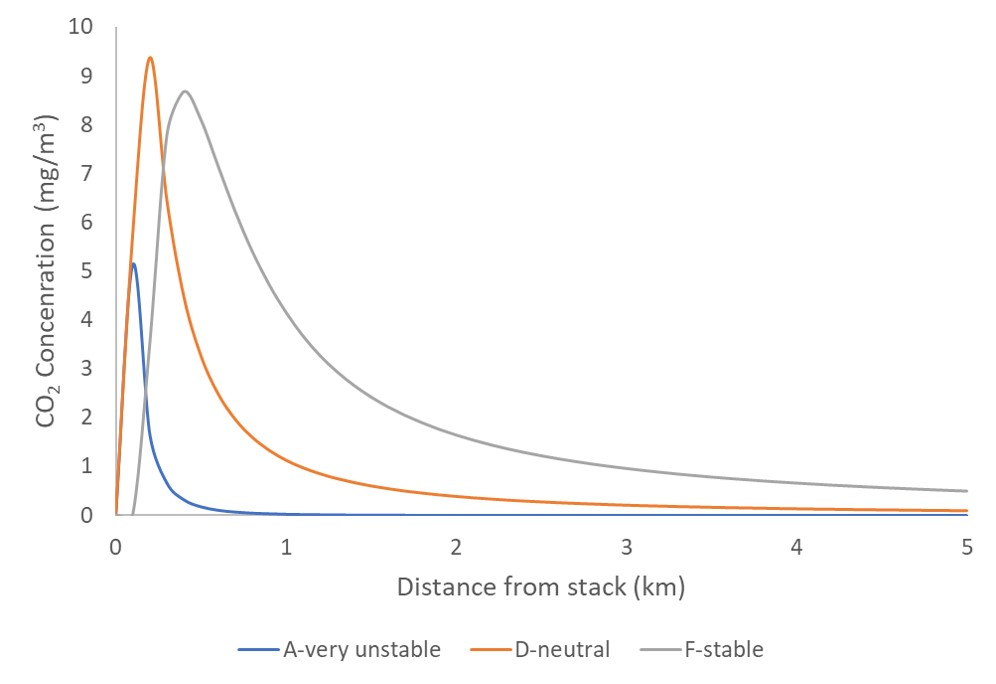
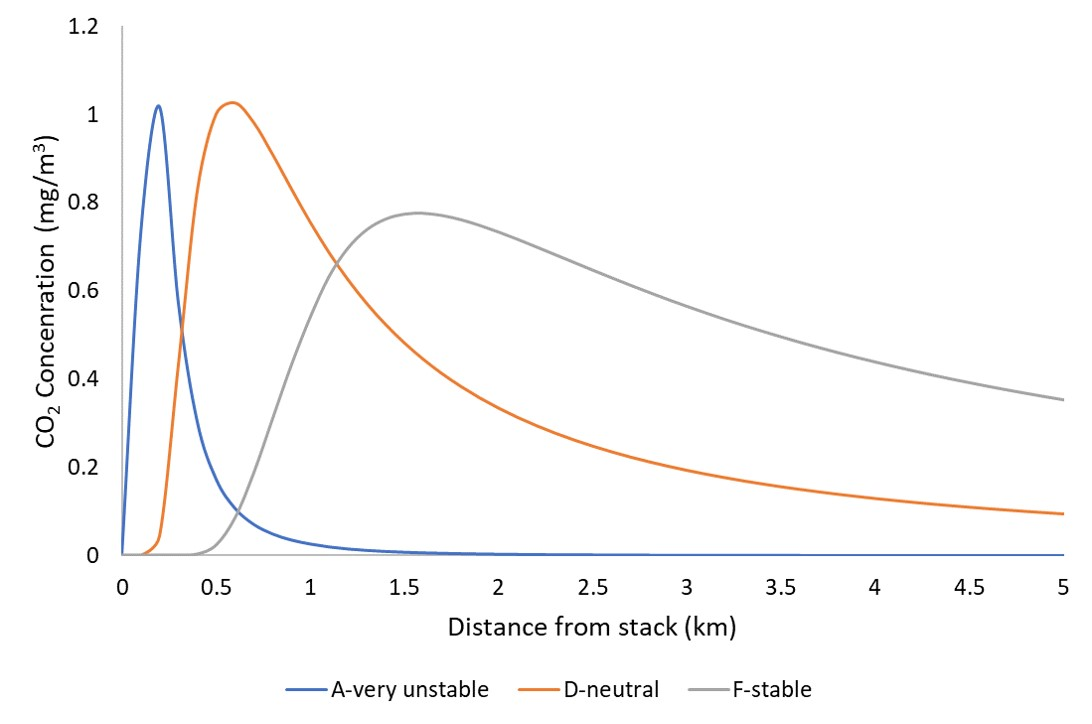
Update on Overleaf.

diff --git a/chapters/0-executive-summary/3-reactor.tex b/chapters/0-executive-summary/3-reactor.tex
@@ -21,6 +21,6 @@ A key aspect of innovation is the robust temperature control within the nitratio
 
 %The reactor is made from stainless steel 304L, which is suitable for corrosive nitric acid processing \cite{cm_selection_nodate}. The wall thickness of the shell and ends were calculated to be \SI{5}{\mm} after taking into consideration of corrosion and other welding factors. The final mechanical design can be seen in \cref{fig:executivesummaryreactor}.
 
-Stable reactor operation is also ensured by a detailed mechanical design (\cref{fig:executivesummaryreactor}) that includes using corrosive-resistant stainless steel 304L and sufficient wall thickness \cite{cm_selection_nodate}. Optimal design was achieved after optimisation and sensitivity analyses on the following design parameters: concentric inner cooling pipe diameter and flowrate, direction of cooling water flow, \ch{HNO3} to toluene inlet ratio and total number of reaction tubes. The temperature profile of the reactor, illustrating the performance of the secondary cooling system in reducing hotspot temperature whilst maintaining the required conversion, is shown in \cref{fig:reactor-comsol}. The optimal reactor length was determined to be \SI{4.3}{\m}.  %A further sensitivity analysis was performed on the cooling water inlet temperature since the temperature inside the reactor needs to be well-controlled at all times. Cooling water temperature was simulated to vary by \pm \SI{5}{\K} and the total length of reactor required was investigated. The cooling water is not expected to fluctuate to this degree since it is reused and mixed together from multiple cooling water streams in the plant, but taking a conservative approach to model the reactor increases the overall safety of Nitroma's plant in the worst case scenario. 
+Stable reactor operation is also ensured by a detailed mechanical design (\cref{fig:executivesummaryreactor}) that includes using corrosive-resistant stainless steel 304L and sufficient wall thickness \cite{cm_selection_nodate}. Optimal design was achieved after optimisation and sensitivity analyses on the following design parameters: concentric inner cooling pipe diameter and flowrate, direction of cooling water flow, \ch{HNO3} to toluene inlet ratio and total number of reaction tubes. \cref{fig:reactor-comsol} shows the temperature profile of the reactor, illustrating the performance of the secondary cooling system in reducing hotspot temperature whilst maintaining the required conversion. The optimal reactor length was determined to be \SI{4.3}{\m}.  %A further sensitivity analysis was performed on the cooling water inlet temperature since the temperature inside the reactor needs to be well-controlled at all times. Cooling water temperature was simulated to vary by \pm \SI{5}{\K} and the total length of reactor required was investigated. The cooling water is not expected to fluctuate to this degree since it is reused and mixed together from multiple cooling water streams in the plant, but taking a conservative approach to model the reactor increases the overall safety of Nitroma's plant in the worst case scenario. 
 
 

diff --git a/chapters/5-safety-layout-environment/7-waste.tex b/chapters/5-safety-layout-environment/7-waste.tex
@@ -155,13 +155,13 @@ C(x,0,0)= \frac{Q}{\pi u_{H} \sigma_{y} \sigma_{z}} \exp\left( \frac{H^2}{2\sigm
 \end{equation}
 
 
-The \ch{CO2} and \ch{NO2} emissions (in both the BA and the BH scenario), fall below their respective long-term workplace exposure limits (\SI{9150}{\mg\per\cubic\m} and \SI{0.96}{\mg\per\cubic\m}) at the closest proximity to the plant that are imposed under the COSHH law. The highest concentration of \ch{CO2} occurs during the BH operation, with a peak of \SI{7.94}{\mg\per\cubic\m}  (under the unstable condition), whilst the highest \ch{NO2} concentration is \SI{0.285}{\mg\per\cubic\m} under neutral conditions (for both the BA and the BH operation) \cite{great_britain_health_and_safety_executive_workplace_2020}. The BH operation plume models can be seen in \ref{fig:CO2plumeBH} and \ref{fig:NO2plumeBH}. The plume models for the BA scenario are available in the appendix. 
+The \ch{CO2} and \ch{NO2} emissions (in both the BA and the BH scenario), fall below their respective long-term workplace exposure limits (\SI{9150}{\mg\per\cubic\m} and \SI{0.96}{\mg\per\cubic\m}) at the closest proximity to the plant that are imposed under the COSHH law. The highest concentration of \ch{CO2} occurs during the BH operation, with a peak of \SI{1.64}{\mg\per\cubic\m}  (under the unstable condition), whilst the highest \ch{NO2} concentration is \SI{0.285}{\mg\per\cubic\m} under neutral conditions (for both the BA and the BH operation) \cite{great_britain_health_and_safety_executive_workplace_2020}. The BH operation plume models can be seen in \ref{fig:CO2plumeBH} and \ref{fig:NO2plumeBH}. The plume models for the BA scenario are available in the appendix. 
 
 \begin{figure*}[t!]
     \centering
     \begin{minipage}[t]{0.5\textwidth}
         \centering
-        \includegraphics[width=\linewidth]{figures/CO2plumeBH.jpg}
+        \includegraphics[width=\linewidth]{figures/CO2plume.jpg}
         \caption{\ch{CO2} plume model from BH scenario}
         \label{fig:CO2plumeBH}
     \end{minipage}%

diff --git a/chapters/4-operation-control/3-detailedsub.tex b/chapters/4-operation-control/3-detailedsub.tex
@@ -126,7 +126,7 @@ The liquid level in the reboiler H204 is an important inventory to control to pr
 
 \subsubsection{Reflux drum S204 level control}%S204-LC
 \label{sec:S204-LC}
-Similar to the level control in the reboiler, controlling the level of liquid in the reflux drum is required for stable operation of the column. Letting the drum run dry would lead to no reflux returning to the column, which would affect the separation efficiency of the light and heavy components. The manipulated variable for the liquid level was chosen to be the tops product flowrate, as it was desirable to maintain a constant reflux ratio to the column in order that the energy required to achieve the desired degree of separation would remain constant. In order to account for disturbances to the column performance because of variations in feed flowrate, a feedforward controller was implemented to adjust the tops product flowrate based on the feed flowrate (see Figure \ref{fig:S204-LC}. This prevents material and energy buildup in the column. 
+Similar to the level control in the reboiler, controlling the level of liquid in the reflux drum is required for stable operation of the column. Letting the drum run dry would lead to no reflux returning to the column, which would affect the separation efficiency of the light and heavy components. The manipulated variable for the liquid level was chosen to be the tops product flowrate, as it was desirable to maintain a constant reflux ratio to the column in order that the energy required to achieve the desired degree of separation would remain constant. In order to account for disturbances to the column performance because of variations in feed flowrate, a feedforward controller was implemented to adjust the tops product flowrate based on the feed flowrate (see Figure \ref{fig:S204-LC}). This prevents material and energy buildup in the column. 
 
 \subsubsection{Condenser H203 heat duty control}%H203-TC
     \begin{wrapfigure}{r}{0.6\linewidth}

diff --git a/chapters/6-economics/B-business-plan.tex b/chapters/6-economics/B-business-plan.tex
@@ -27,4 +27,29 @@ Poland    & 285           & 7.9 & 0.10      &   19   & 12.60            & 2.5 & 
 \subsection{Results of Porter's Five Forces analysis}
 \label{app:five-forces}
 
-\
+\subsection{SWOT results}
+
+\begin{table}[h]
+    \centering
+    \caption{SWOT analysis}
+    \label{tab:swot}
+    
+    \begin{tabularx}{\linewidth}{l|X|X}
+        & \textit{Helpful} & \textit{Harmful} \\ \hline
+        \rotatebox[origin=r]{90}{\textit{Internal}} & \begin{minipage}[t]{\linewidth} \makebox[\linewidth]{\color{green}\textbf{Strengths}}
+        \begin{itemize}[topsep=0em,leftmargin=1em]
+            \item hello
+        \end{itemize}\end{minipage} & \begin{minipage}[t]{\linewidth} \makebox[\linewidth]{\color{yellow}\textbf{Weaknesses}}
+        \begin{itemize}[topsep=0em,leftmargin=1em]
+            \item world
+        \end{itemize}\end{minipage} \\ \hline 
+        \rotatebox[origin=r]{90}{\textit{External}} & \begin{minipage}[t]{\linewidth} \makebox[\linewidth]{\color{blue}\textbf{Opportunities}} 
+        \begin{itemize}[topsep=0em,leftmargin=1em]
+            \item foo
+        \end{itemize}\end{minipage} & \begin{minipage}[t]{\linewidth} \makebox[\linewidth]{\color{red}\textbf{Threats}}
+        \begin{itemize}[topsep=0em,leftmargin=1em]
+            \item bar
+        \end{itemize}\end{minipage} \\
+    \end{tabularx}
+    
+\end{table}

diff --git a/chapters/6-economics/3-business-assessment.tex b/chapters/6-economics/3-business-assessment.tex
@@ -144,9 +144,9 @@ The PABA, PABH and OTOL markets in China can be modelled most effectively by a p
 \label{tab:substitute-products}
 \begin{tabular}{lcccccc}
 \toprule
-\multirow{2}{*}{\textbf{Factor}} & Number and size       & Industry   & Brand          & Barriers to           & Switching & Average  \\
-                                 & of competitors        & growth     & loyalty        & exit    & costs     &          \\\midrule
-\textbf{Score}                   & 1                     & 1         & 3              & 4              & 4         & 2.6       \\\bottomrule
+\multirow{2}{*}{\textbf{Factor}} & Number and size       & Industry   & Brand          & Barriers to    & Average   \\
+                                 & of competitors        & growth     & loyalty        & exit           &           \\\midrule
+\textbf{Score}                   & 2                     & 1          & 1              & 3              & 1.8       \\\bottomrule
 \end{tabular}%
 \end{table}
 
